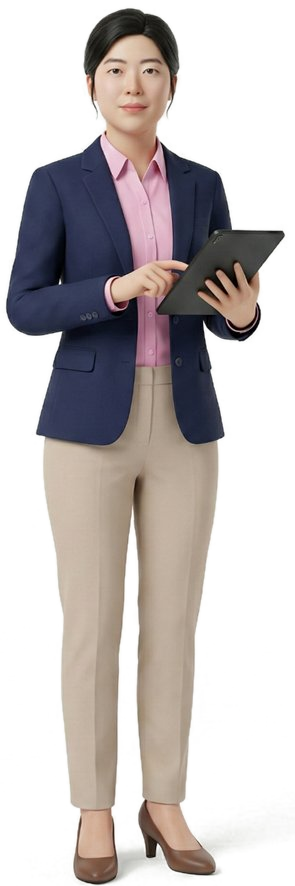
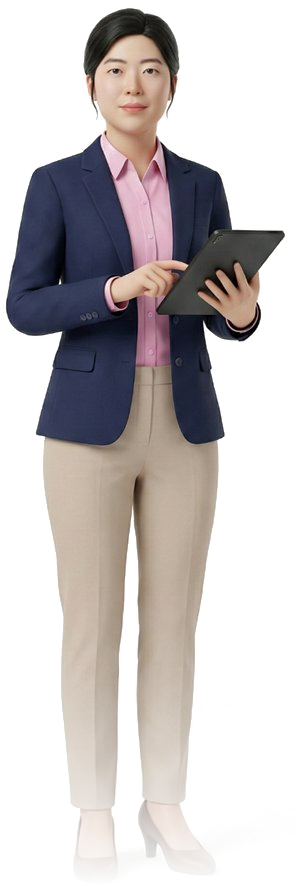
프로필 이미지 배경 그라데이션 처리

Changed region(s): [[0.2136, 0.7619, 0.7627, 1.0]]

diff --git a/index.html b/index.html
@@ -66,11 +66,25 @@ nav{
   position:absolute;bottom:0;
   height:115%;
   object-fit:contain;object-position:bottom center;
-  pointer-events:none;
-  user-select:none;
+  pointer-events:none;user-select:none;
   animation:photoFadeIn .9s .4s both;
-  filter:drop-shadow(0 0 48px rgba(75,123,224,.25));
+  mix-blend-mode:luminosity;
+  filter:brightness(0.92);
 }
+/* 상단 흰 배경을 다크로 녹이는 오버레이 */
+.hero-right::before{
+  content:'';
+  position:absolute;inset:0;z-index:1;
+  background:linear-gradient(
+    to bottom,
+    var(--bg) 0%,
+    transparent 28%,
+    transparent 70%,
+    var(--bg) 100%
+  );
+  pointer-events:none;
+}
+.hero-photo-glow{z-index:0}
 .hero-photo-glow{
   position:absolute;bottom:0;left:50%;
   transform:translateX(-50%);
